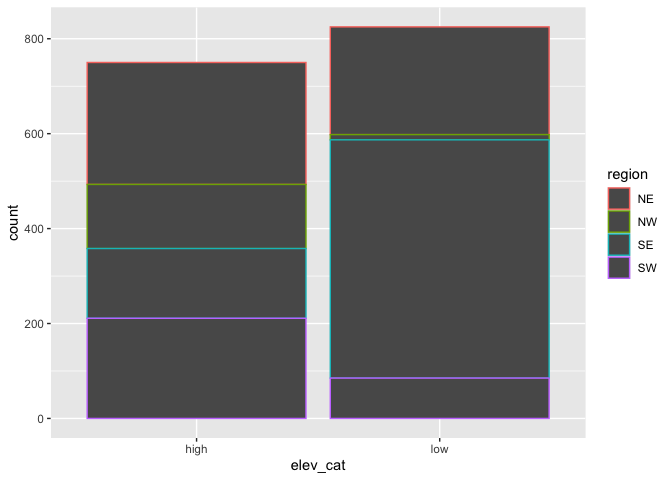
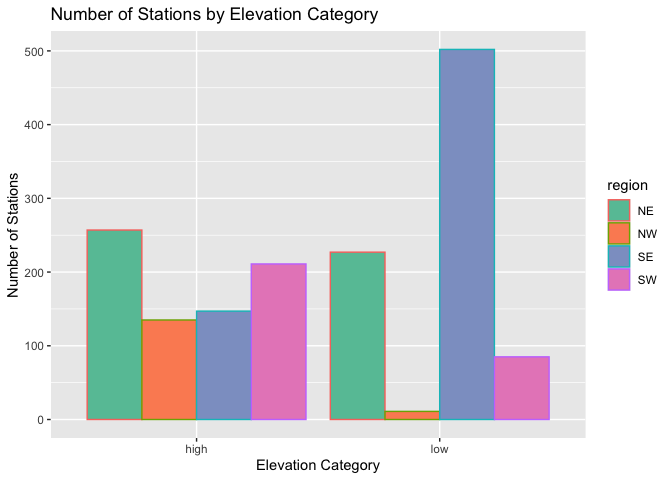
updating figures and text formatting

diff --git a/04-lab/README.md b/04-lab/README.md
@@ -6,13 +6,9 @@ Flemming Wu
 ### 1. Read in the data
 
 ``` r
-if(!file.exists("met_all.gz")){
-  download.file(
-    url = "https://raw.githubusercontent.com/USCbiostats/data-science-data/master/02_met/met_all.gz",
-    destfile = "met_all.gz",
-    method = "libcurl",
-    timeout = 60
-  )
+if (!file.exists("met_all.gz")) {
+    download.file(url = "https://raw.githubusercontent.com/USCbiostats/data-science-data/master/02_met/met_all.gz",
+        destfile = "met_all.gz", method = "libcurl", timeout = 60)
 }
 
 met <- data.table::fread("met_all.gz")
@@ -46,7 +42,7 @@ summary(met$temp)
     ##  -40.00   19.60   23.50   23.59   27.80   56.00   60089
 
 ``` r
-met <- met[met$temp > -17][elev == 9999.0, elev := NA]
+met <- met[met$temp > -17][elev == 9999, `:=`(elev, NA)]
 ```
 
 ``` r
@@ -63,23 +59,15 @@ met <- met[met$week == min(met$week)]
 ```
 
 ``` r
-met_avg <- met[,.(
-  temp     = mean(temp,na.rm=TRUE),
-  rh       = mean(rh,na.rm=TRUE),
-  wind.sp  = mean(wind.sp,na.rm=TRUE),
-  vis.dist = mean(vis.dist,na.rm=TRUE),
-  dew.point = mean(dew.point,na.rm=TRUE),
-  lat      = mean(lat),
-  lon      = mean(lon), 
-  elev     = mean(elev,na.rm=TRUE)
-), by="USAFID"]
+met_avg <- met[, .(temp = mean(temp, na.rm = TRUE), rh = mean(rh, na.rm = TRUE),
+    wind.sp = mean(wind.sp, na.rm = TRUE), vis.dist = mean(vis.dist, na.rm = TRUE),
+    dew.point = mean(dew.point, na.rm = TRUE), lat = mean(lat), lon = mean(lon),
+    elev = mean(elev, na.rm = TRUE)), by = "USAFID"]
 ```
 
 ``` r
-met_avg[, region := fifelse(lon > -98 & lat > 39.71, "NE", 
-                fifelse(lon < -98 & lat > 39.71, "NW",
-                fifelse(lon < -98 & lat <= 39.71, "SW", "SE")))
-                ]
+met_avg[, `:=`(region, fifelse(lon > -98 & lat > 39.71, "NE", fifelse(lon < -98 &
+    lat > 39.71, "NW", fifelse(lon < -98 & lat <= 39.71, "SW", "SE"))))]
 
 table(met_avg$region)
 ```
@@ -89,19 +77,19 @@ table(met_avg$region)
     ## 484 146 649 296
 
 ``` r
-met_avg[, elev_cat := fifelse(elev > 252, "high", "low")]
+met_avg[, `:=`(elev_cat, fifelse(elev > 252, "high", "low"))]
 ```
 
 ### 3. Use geom_violin() to examine the wind speed and dew point temperature by region
 
-Use facets Make sure to deal with NA category Describe what you observe
-in the graph
+Use facets.  
+Make sure to deal with NA category.  
+Describe what you observe in the graph.  
 
 ``` r
 met_avg[!is.na(region)] %>%
-  ggplot() +
-  geom_violin(mapping = aes(x = 1, y = dew.point, color = region, fill = region)) +
-  facet_wrap(~ region, nrow = 1)
+    ggplot() + geom_violin(mapping = aes(x = 1, y = dew.point, color = region, fill = region)) +
+    facet_wrap(~region, nrow = 1)
 ```
 
 ![](README_files/figure-gfm/Dew%20Point%20by%20region-1.png)<!-- --> The
@@ -109,9 +97,8 @@ highest dew point temperature is recorded in the southeast.
 
 ``` r
 met_avg[!is.na(region) & !is.na(wind.sp)] %>%
-  ggplot() +
-  geom_violin(aes(x =  1, y = wind.sp, color = region, fill = region)) +
-  facet_wrap(~ region, nrow = 1)
+    ggplot() + geom_violin(aes(x = 1, y = wind.sp, color = region, fill = region)) +
+    facet_wrap(~region, nrow = 1)
 ```
 
 ![](README_files/figure-gfm/Wind%20speed%20by%20region-1.png)<!-- -->
@@ -119,15 +106,16 @@ The highest wind speed was recorded in the northeast.
 
 ### 4. Use geom_jitter with geom_smooth to examine the association between dew point temperature and wind speed by region
 
-Colour points by region Make sure to deal with NA category Fit a linear
-regression line by region Describe what you observe in the graph
+Colour points by region.  
+Make sure to deal with NA category.  
+Fit a linear regression line by region.  
+Describe what you observe in the graph.  
 
 ``` r
 met_avg[!is.na(region) & !is.na(wind.sp)] %>%
-  ggplot(mapping = aes(x = wind.sp, y = dew.point, color = region)) +
-  geom_point(mapping = aes(color = region)) +
-  geom_smooth(method = lm, mapping = aes(linetype = region)) +
-  facet_wrap(~ region, nrow = 2)
+    ggplot(mapping = aes(x = wind.sp, y = dew.point, color = region)) + geom_point(mapping = aes(color = region)) +
+    geom_smooth(method = lm, mapping = aes(linetype = region)) + facet_wrap(~region,
+    nrow = 2)
 ```
 
     ## `geom_smooth()` using formula 'y ~ x'
@@ -138,34 +126,44 @@ dewpoint with increasing wind speed.
 
 ### 5. Use geom_bar to create barplots of the weather stations by elevation category coloured by region
 
-Bars by elevation category using position=“dodge” Change colours from
-the default. Colour by region using scale_fill_brewer see this Create
-nice labels on axes and add a title Describe what you observe in the
-graph Make sure to deal with NA
+Bars by elevation category using position=“dodge”.  
+Change colours from the default. Colour by region using
+scale_fill_brewer see this.  
+Create nice labels on axes and add a title.  
+Describe what you observe in the graph.  
+Make sure to deal with NA.
 
 ``` r
 met_avg[!is.na(elev_cat)] %>%
-  ggplot() +
-  geom_bar(mapping = aes(x = elev_cat, col = region))
+    ggplot() + geom_bar(mapping = aes(x = elev_cat, col = region, fill = region),
+    position = "dodge") + scale_fill_brewer(palette = "Set2") + xlab("Elevation Category") +
+    ylab("Number of Stations") + ggtitle("Number of Stations by Elevation Category")
 ```
 
-![](README_files/figure-gfm/unnamed-chunk-6-1.png)<!-- -->
+![](README_files/figure-gfm/unnamed-chunk-6-1.png)<!-- --> The majority
+of stations in the southeast are at a low elevation, whereas in the
+northwest and southwest more stations are at a higher elevation. For the
+northeast, the stations are about evenly distributed between high and
+low elevations.
 
 ### 6. Use stat_summary to examine mean dew point and wind speed by region with standard deviation error bars
 
-Make sure to remove NA Use fun.data=“mean_sdl” in stat_summary Add
-another layer of stats_summary but change the geom to “errorbar” (see
-the help). Describe the graph and what you observe Dew point temperature
-is… Wind speed is…
+Make sure to remove NA.  
+Use fun.data=“mean_sdl” in stat_summary.  
+Add another layer of stats_summary but change the geom to “errorbar”
+(see the help).  
+Describe the graph and what you observe.  
+Dew point temperature is…  
+Wind speed is…
 
 ``` r
 met_avg[!is.na(dew.point)] %>%
-  ggplot(mapping = aes(x=region, y=dew.point)) +
-  stat_summary(fun.data = "mean_sdl", geom = "errorbar")
+    ggplot(mapping = aes(x = region, y = dew.point)) + stat_summary(fun.data = "mean_sdl",
+    geom = "errorbar")
 ```
 
 ![](README_files/figure-gfm/unnamed-chunk-7-1.png)<!-- --> The west
-seems to have lower dew points on average
+seems to have lower dew points on average.
 
 ### 7. Make a map showing the spatial trend in relative h in the US
 
@@ -177,79 +175,29 @@ across the US
 ``` r
 top10rh <- met_avg[rank(-rh) <= 10]
 
-top10rh
+# top10rh
 ```
-
-    ##     USAFID     temp       rh   wind.sp  vis.dist dew.point      lat        lon
-    ##  1: 720379 21.47634 91.98783 3.3273256  9565.011  19.90323 36.85500  -84.85600
-    ##  2: 720624 21.17226 94.86840 3.6029279 16031.801  20.20582 44.01600  -97.08600
-    ##  3: 720646 14.61373 96.14343 2.7878193  4305.788  13.97451 37.51300 -122.50100
-    ##  4: 722038 26.88414 92.79511 2.8909722 13964.862  25.52966 26.15496  -81.77500
-    ##  5: 723930 12.94467 94.48180 2.0378173  5185.784  11.97908 34.71700 -120.56600
-    ##  6: 724737 25.86219 92.24941 0.6226148 13076.251  24.31095 28.81700  -82.31700
-    ##  7: 725495 21.66667 92.04836 2.4371560 15551.776  20.14222 43.20800  -95.83300
-    ##  8: 725513 21.61979 92.70759 3.1020833 13254.417  20.22639 40.89300  -97.99700
-    ##  9: 725946 15.79515 92.65354 2.2703883  8310.199  14.55388 41.78000 -124.23601
-    ## 10: 726530 22.88160 97.40711 2.4968750 12453.917  22.38889 43.76700  -99.31801
-    ##           elev region elev_cat
-    ##  1: 294.000000     SE     high
-    ##  2: 523.000000     NE     high
-    ##  3:  20.000000     SW      low
-    ##  4:   6.896552     SE      low
-    ##  5: 112.000000     SW      low
-    ##  6:  15.000000     SE      low
-    ##  7: 433.000000     NE     high
-    ##  8: 550.000000     NE     high
-    ##  9:  17.000000     NW      low
-    ## 10: 517.000000     NW     high
 
 ``` r
 library(leaflet)
 library(webshot)
 
-
-rh.pal <- colorNumeric(c('darkgreen','goldenrod','brown'), domain=met_avg$rh)
-rh.pal
+rh.pal <- colorNumeric(c("darkgreen", "goldenrod", "brown"), domain = met_avg$rh)
+# rh.pal
 ```
 
-    ## function (x) 
-    ## {
-    ##     if (length(x) == 0 || all(is.na(x))) {
-    ##         return(pf(x))
-    ##     }
-    ##     if (is.null(rng)) 
-    ##         rng <- range(x, na.rm = TRUE)
-    ##     rescaled <- scales::rescale(x, from = rng)
-    ##     if (any(rescaled < 0 | rescaled > 1, na.rm = TRUE)) 
-    ##         warning("Some values were outside the color scale and will be treated as NA")
-    ##     if (reverse) {
-    ##         rescaled <- 1 - rescaled
-    ##     }
-    ##     pf(rescaled)
-    ## }
-    ## <bytecode: 0x7fbd485355b8>
-    ## <environment: 0x7fbd48537eb0>
-    ## attr(,"colorType")
-    ## [1] "numeric"
-    ## attr(,"colorArgs")
-    ## attr(,"colorArgs")$na.color
-    ## [1] "#808080"
-
 ``` r
-rhmap <- leaflet(met_avg) %>% 
-  # The looks of the Map
-  addProviderTiles('CartoDB.Positron') %>% 
-  # Some circles
-  addCircles(
-    lat = ~lat, lng=~lon,
-    label = ~paste0(rh), color = ~ rh.pal(rh),
-    opacity = 1, fillOpacity = 1, radius = 500
-    ) %>%
-  # And a pretty legend
-  addLegend('bottomleft', pal=rh.pal, values=met_avg$rh,
-          title='Relative Humidity', opacity=1)
+rhmap <- leaflet(met_avg) %>%
+    # The looks of the Map
+addProviderTiles("CartoDB.Positron") %>%
+    # Some circles
+addCircles(lat = ~lat, lng = ~lon, label = ~paste0(rh), color = ~rh.pal(rh), opacity = 1,
+    fillOpacity = 1, radius = 500) %>%
+    # And a pretty legend
+addLegend("bottomleft", pal = rh.pal, values = met_avg$rh, title = "Relative Humidity",
+    opacity = 1)
 
 rhmap
 ```
 
-![](README_files/figure-gfm/unnamed-chunk-10-1.png)<!-- -->
+![](README_files/figure-gfm/unnamed-chunk-9-1.png)<!-- -->
